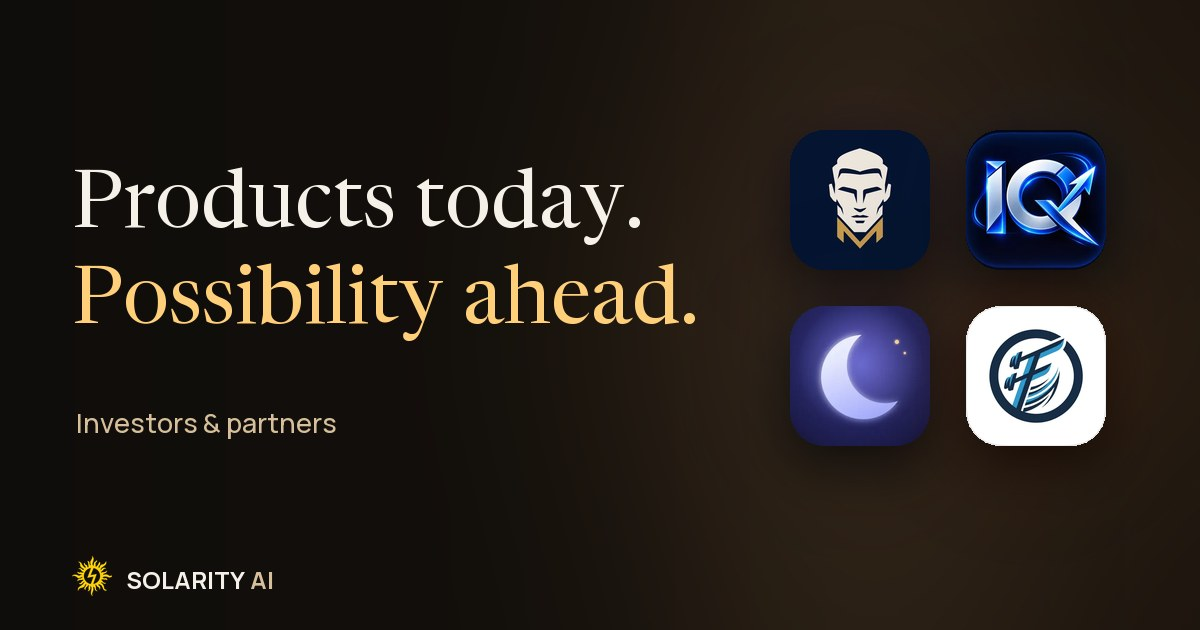
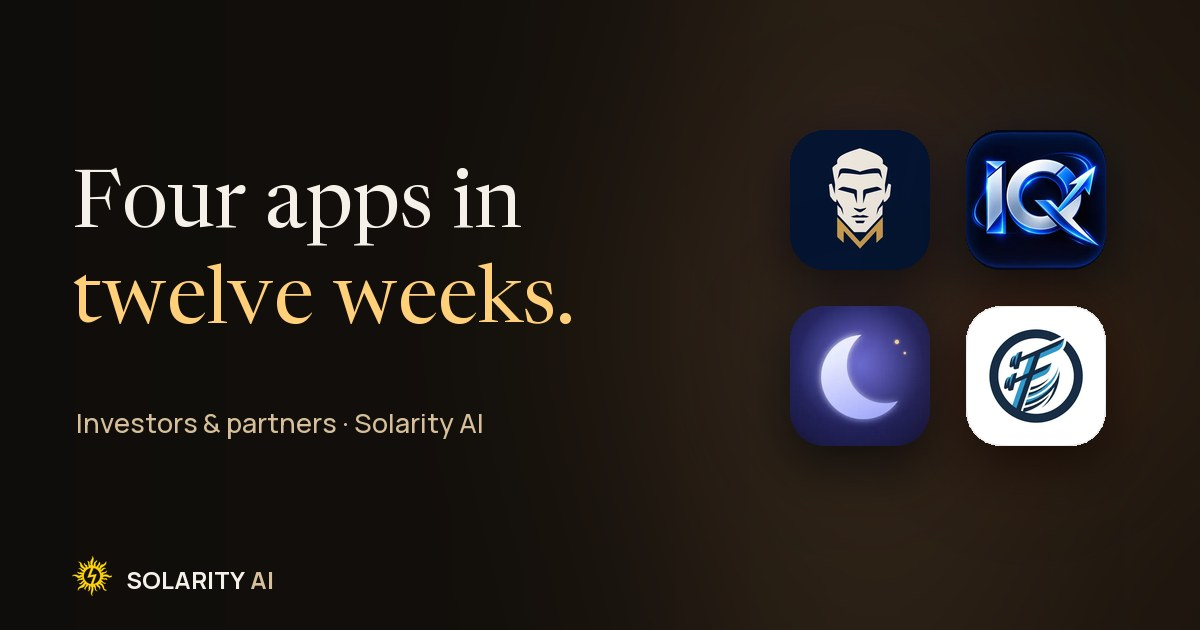
feat: name the record on the investors card

Changed region(s): [[0.0617, 0.4222, 0.5858, 0.5429], [0.0617, 0.2714, 0.555, 0.3921], [0.2775, 0.6635, 0.4008, 0.6937]]

diff --git a/make_social_images.py b/make_social_images.py
@@ -164,7 +164,7 @@ def main() -> None:
     OUT.mkdir(parents=True, exist_ok=True)
     cards = {'default': default_card(), 'platform': platform_card(),
              'apps': portfolio_card(['Apps for', 'everyday ambition.'], 'Four mobile apps · three web apps'),
-             'investors': portfolio_card(['Products today.', 'Possibility ahead.'], 'Investors & partners')}
+             'investors': portfolio_card(['Four apps in', 'twelve weeks.'], 'Investors & partners · Solarity AI')}
     for app in APPS:
         cards[app[0]] = product_card(*app)
     record = {'size': [W, H], 'note': __doc__.strip().splitlines()[0], 'files': {}}
